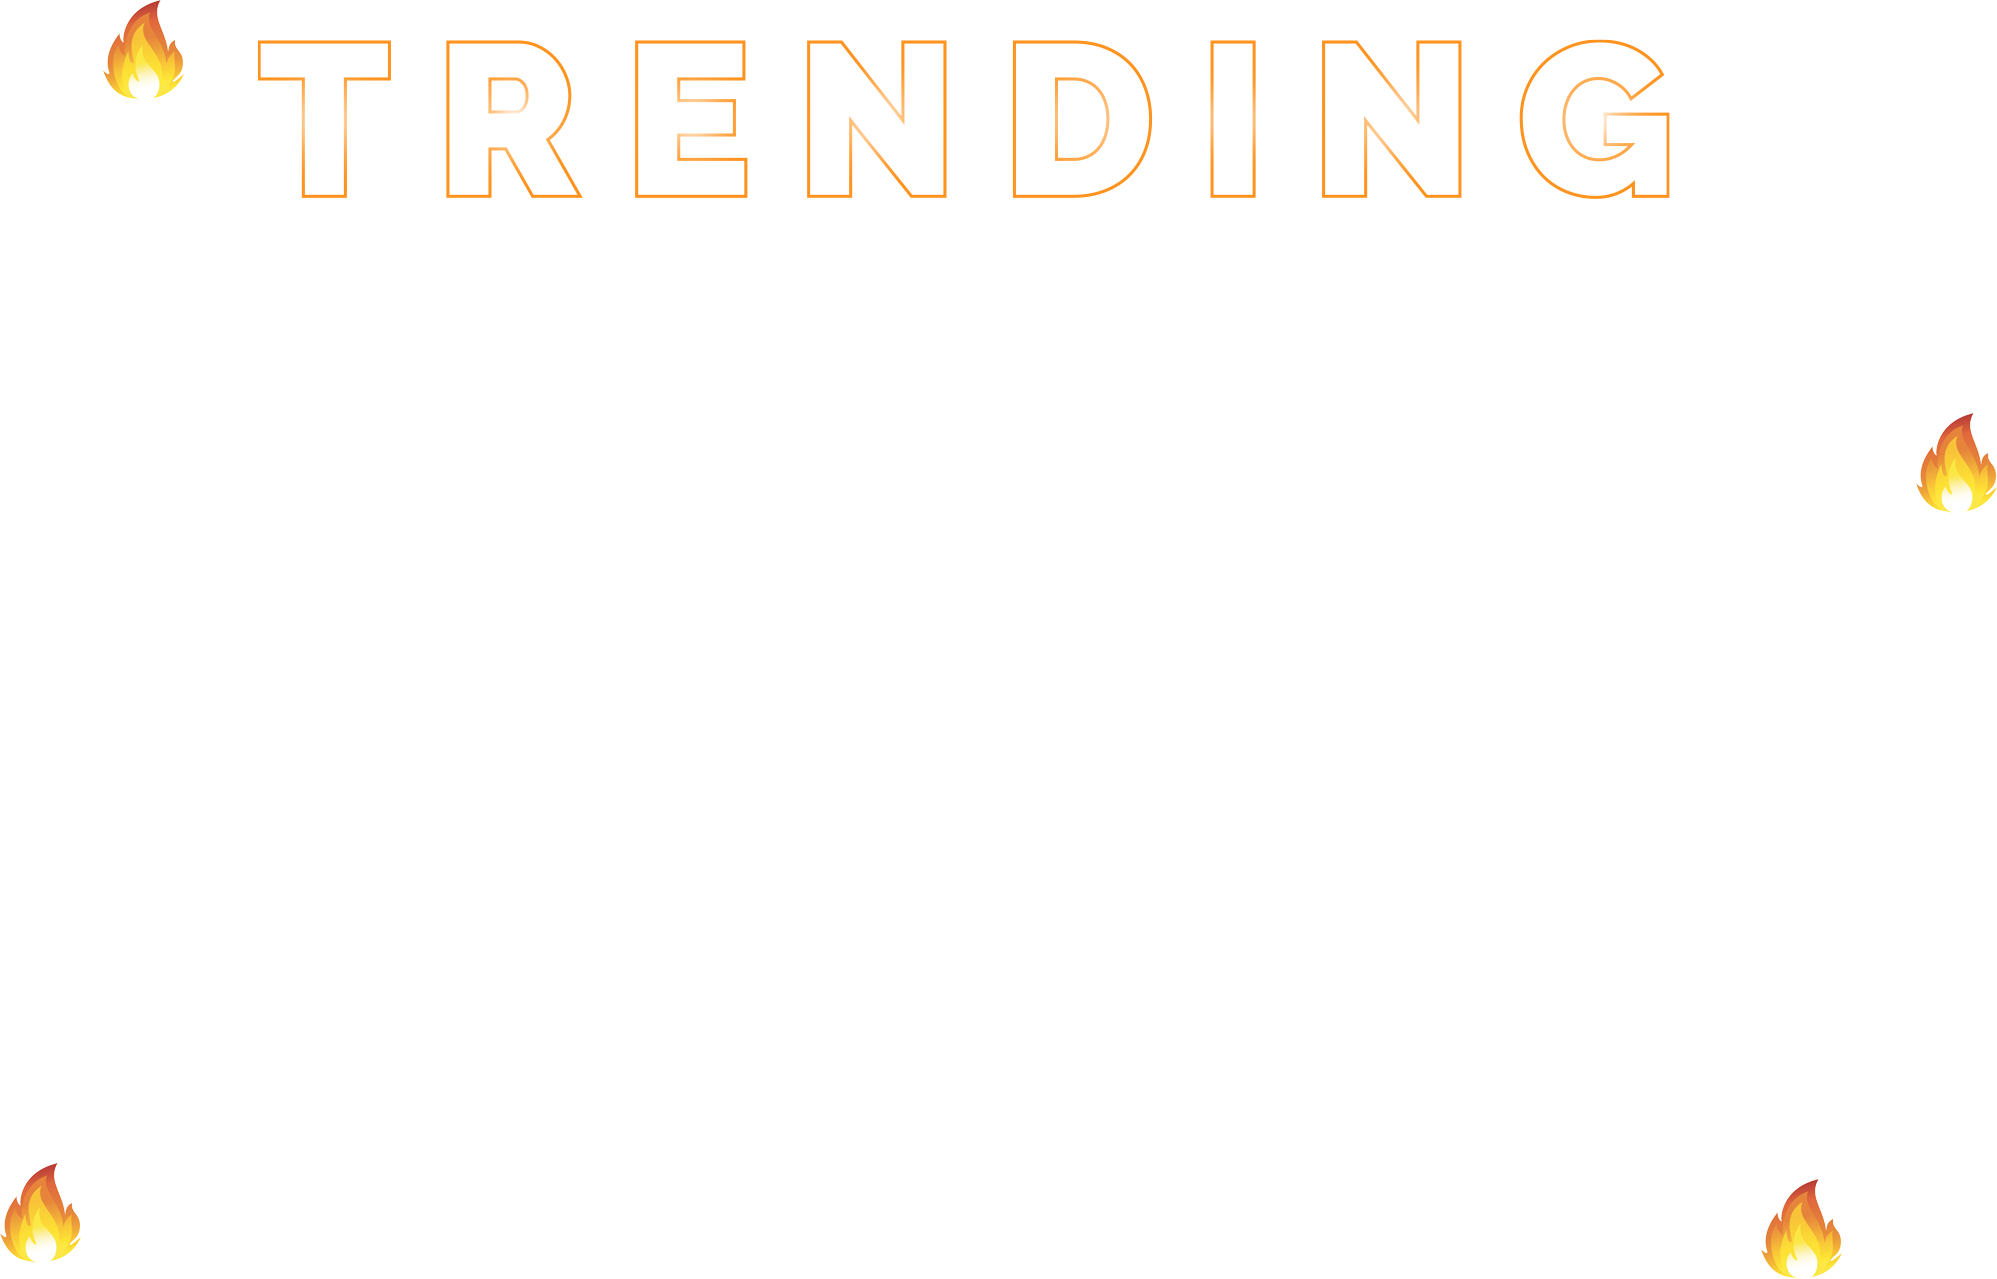
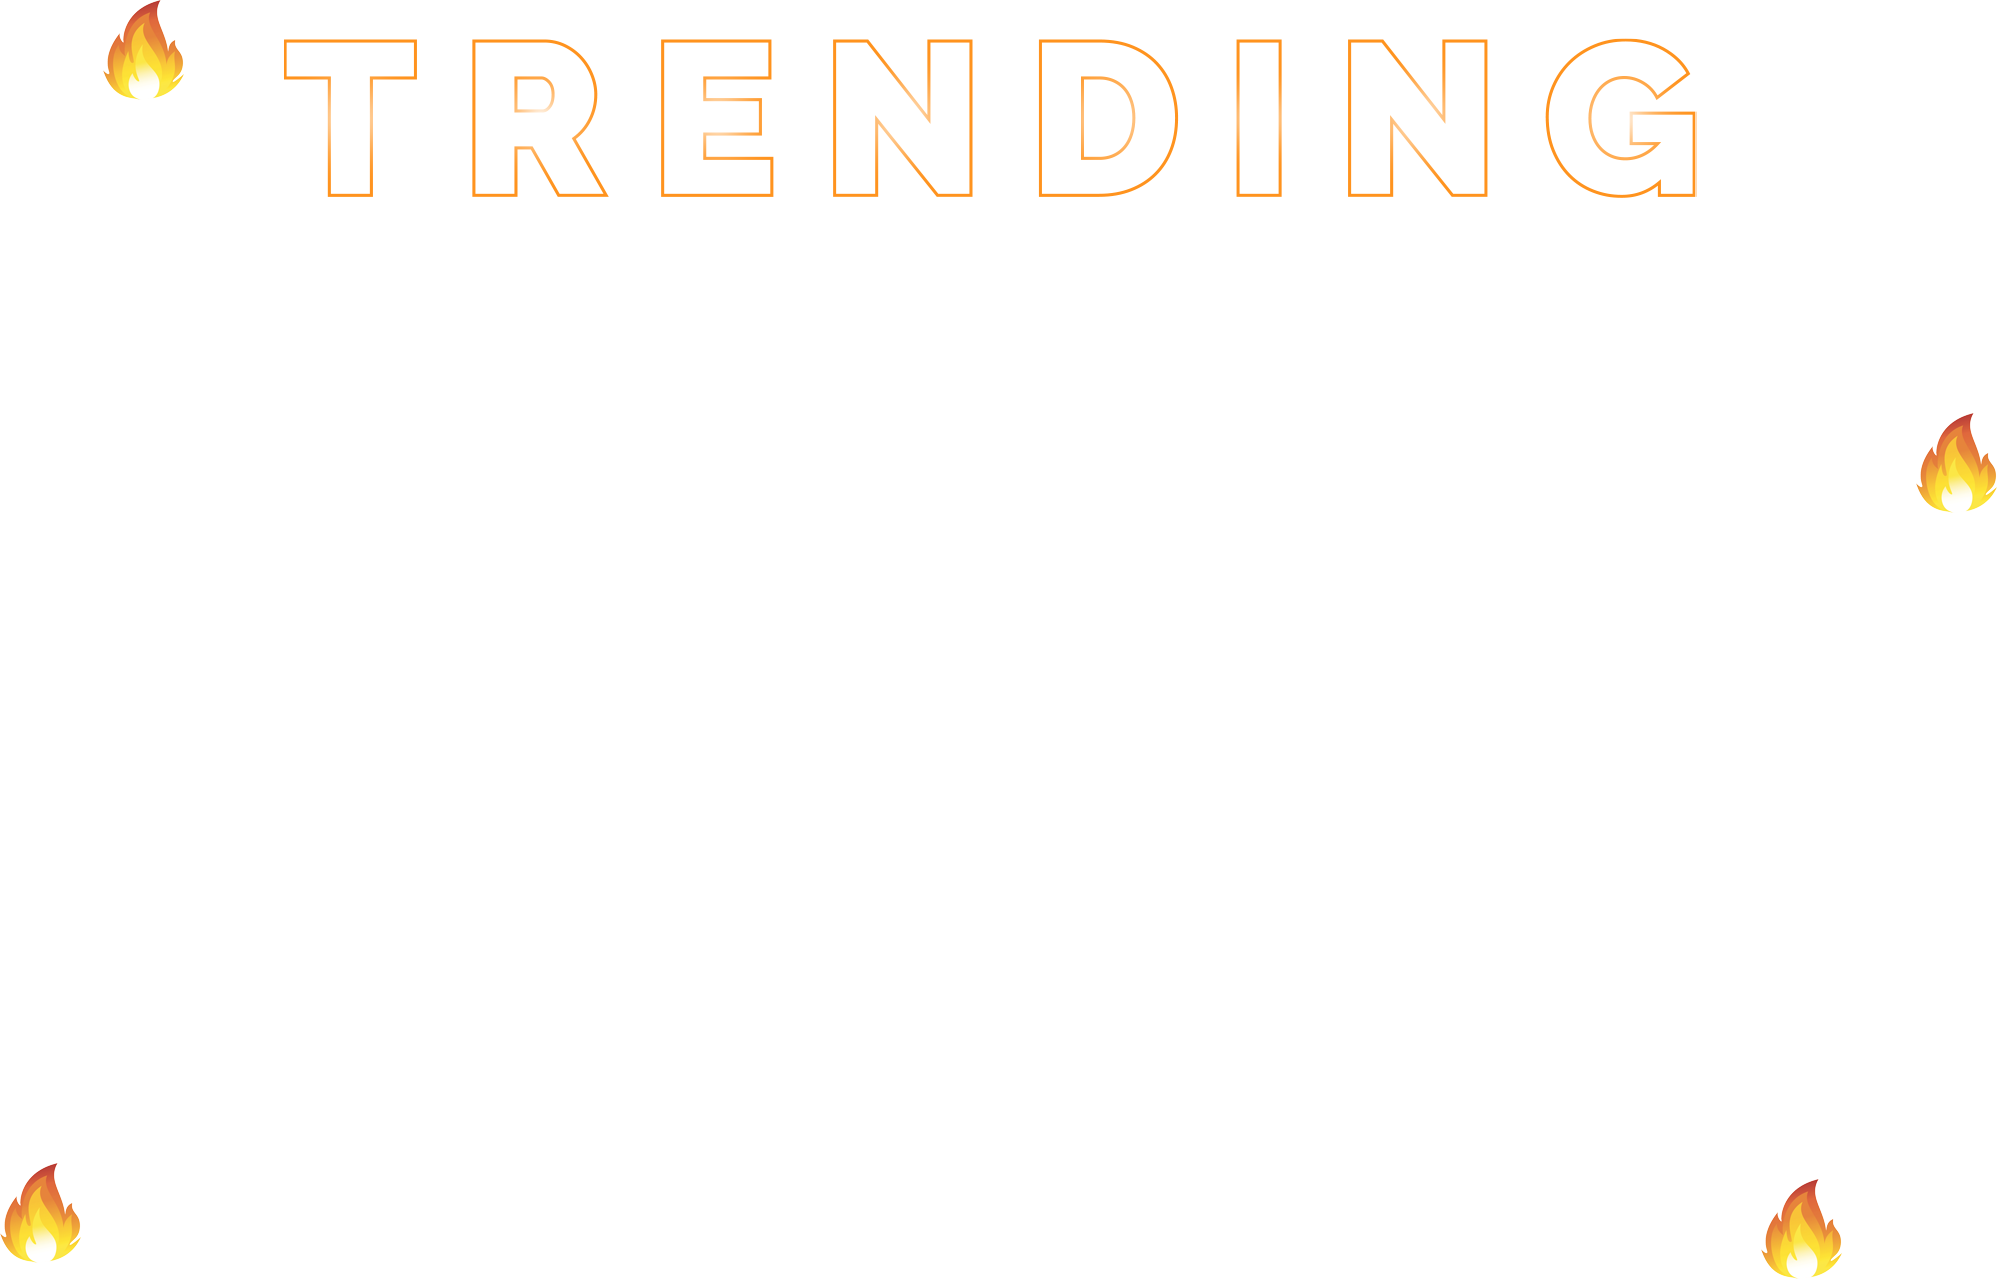
Update styling to trendin section

Changed region(s): [[0.1242, 0.0305, 0.7451, 0.1525], [0.7762, 0.0305, 0.8383, 0.1525]]

diff --git a/src/components/Trendings.component.js b/src/components/Trendings.component.js
@@ -6,6 +6,7 @@ import { sliderData } from "../assets/landingSlider/sliderData";
 import Slider from "react-slick";
 import { getNearContract, fromYoctoToNear, getNearAccount } from "../utils/near_interaction";
 import verifyImage from '../assets/img/Check.png';
+import background from '../assets/img/Trending.png';
 
 function Trendings() {
   const [t, i18n] = useTranslation("global")
@@ -17,7 +18,7 @@ function Trendings() {
     focusOnSelect: true,
     arrows: false,
     autoplaySpeed: 3000,
-    autoplay: true,
+    autoplay: false,
     useTransform: true,
     useCSS: true,
     responsive: [
@@ -56,10 +57,10 @@ function Trendings() {
   }, []);
 
   return (
-    <section className="text-gray-600 body-font bg-gray-100 dark:bg-darkgray">
-      <div className="container w-full mx-auto py-8 dark:bg-darkgray  flex flex-row flex-wrap justify-center  ">
-        <div className="w-full py-10">
-          <h2 className="dark:text-white  text-center  uppercase  font-raleway font-bold text-3xl  lg:text-5xl">{t("Landing.trending-title")}</h2>
+    <section className="text-gray-600 body-font bg-gray-100 dark:bg-darkgray" >
+      <div className="bg-trendings-background bg-contain bg-no-repeat bg-top container w-full mx-auto pt-0 md:pt-4 md:pb-24 dark:bg-darkgray  flex flex-row flex-wrap justify-center" style={{backgroundImage: background}}>
+        <div className="w-full pb-10 pt-0">
+          <h2 className="dark:text-white  text-center  uppercase  font-raleway font-bold text-3xl  lg:text-6xl">{t("Landing.trending-title")}</h2>
           <div className="h-[30px] w-2/3 bg-yellow3 mt-[-10px] mx-auto " />
         </div>
         <div className="w-full trending lg:px-20">
@@ -67,8 +68,8 @@ function Trendings() {
             {tokens.items.map((item, key) => {
               return (
                 <div className="flex flex-row md:w-1/3 w-5/6 mb-10 md:mb-0  justify-center" key={key}>
-                  <div class="trending-token rounded-xlarge">
-                  <div class="max-w-xs w-72 bg-white rounded-xlarge border">
+                  <div className="trending-token rounded-xlarge">
+                  <div className="max-w-xs w-72 bg-white rounded-xlarge border">
                     <div className="w-full m-5 mb-0 flex relative ">
                       <div className="w-[50px] h-[50px]  bg-circle rounded-full bg-pink-2 relative">
                         <img className="w-[25px] h-[25px] bg-transparent rounded-full top-0 -right-3 absolute  " src={verifyImage}></img>

diff --git a/src/components/NftSteps.component.js b/src/components/NftSteps.component.js
@@ -10,7 +10,7 @@ function NftSteps(props) {
   const [t, i18n] = useTranslation("global")
   return (
     <section className="text-gray-600 body-font bg-gray-100 dark:bg-darkgray">
-      <div className="container w-full px-5 py-14 dark:bg-darkgray mx-auto flex flex-row flex-wrap justify-center  ">
+      <div className="container w-full px-5 pt-14 pb-28 dark:bg-darkgray mx-auto flex flex-row flex-wrap justify-center  ">
         <div className="w-full">
           <h2 className="dark:text-white  text-center  uppercase font-raleway font-bold text-3xl  lg:text-5xl">{t("Landing.steps-title")}</h2>
           <div className="h-[30px] w-1/2 bg-brown2 mt-[-10px] mx-auto " />

diff --git a/tailwind.config.js b/tailwind.config.js
@@ -32,7 +32,8 @@ module.exports = {
         'xlarge': '15px',
       },
       backgroundImage: {
-        'hero-rocket': "url('./assets/img/Rocket.png')"
+        'hero-rocket': "url('./assets/img/Rocket.png')",
+        'trendings-background': "url('./assets/img/Trending.png')"
       },
       backgroundSize: {
         '40': '40%'

diff --git a/src/tailwind.css b/src/tailwind.css
@@ -34,6 +34,7 @@
     .trending  .slick-track {
         height: 727px;
         top: 125px;
+        margin-top: -80px;
     }
   }
   
